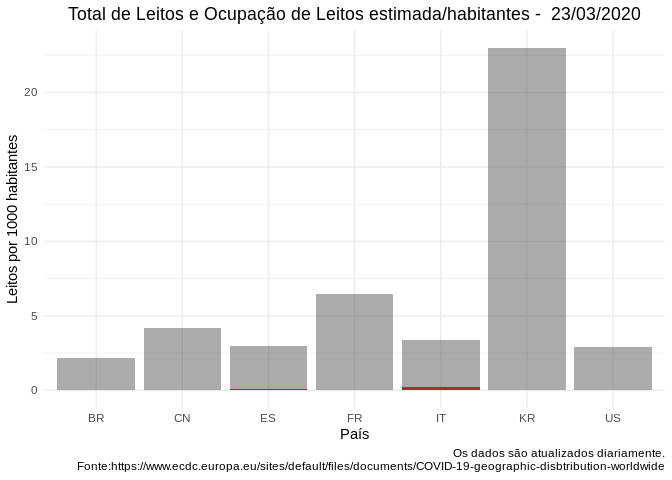
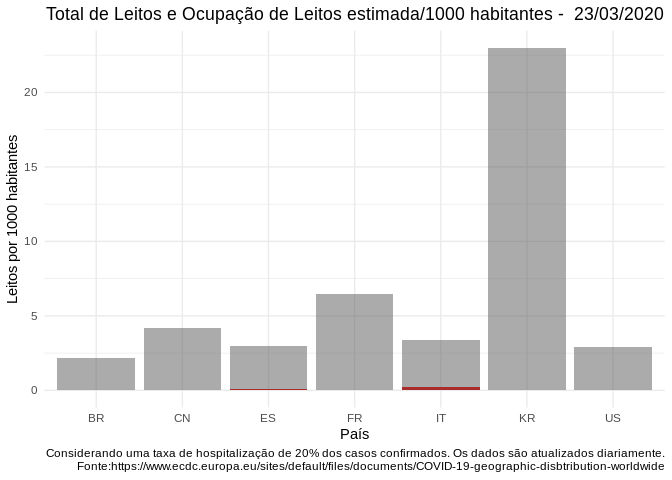
Corrigido legenda

Changed region(s): [[0.0625, 0.0, 1.0, 0.0625], [0.0625, 0.9375, 0.6562, 0.9688]]

diff --git a/README.md b/README.md
@@ -26,13 +26,7 @@ Para o caso brasileiro, o cenário atual é o seguinte:
 
 Para fins de comparação com estimativas internacionais, o gráfico abaixo apresenta a curva de casos confirmados cumulativa a partir do dia 0:
 
-    ## Don't know how to automatically pick scale for object of type difftime. Defaulting to continuous.
-
-![](README_files/figure-markdown_github/unnamed-chunk-6-1.png)
-
-    ## Don't know how to automatically pick scale for object of type difftime. Defaulting to continuous.
-
-![](README_files/figure-markdown_github/unnamed-chunk-6-2.png)
+![](README_files/figure-markdown_github/unnamed-chunk-6-1.png)![](README_files/figure-markdown_github/unnamed-chunk-6-2.png)
 
 ### Dados Por População
 
